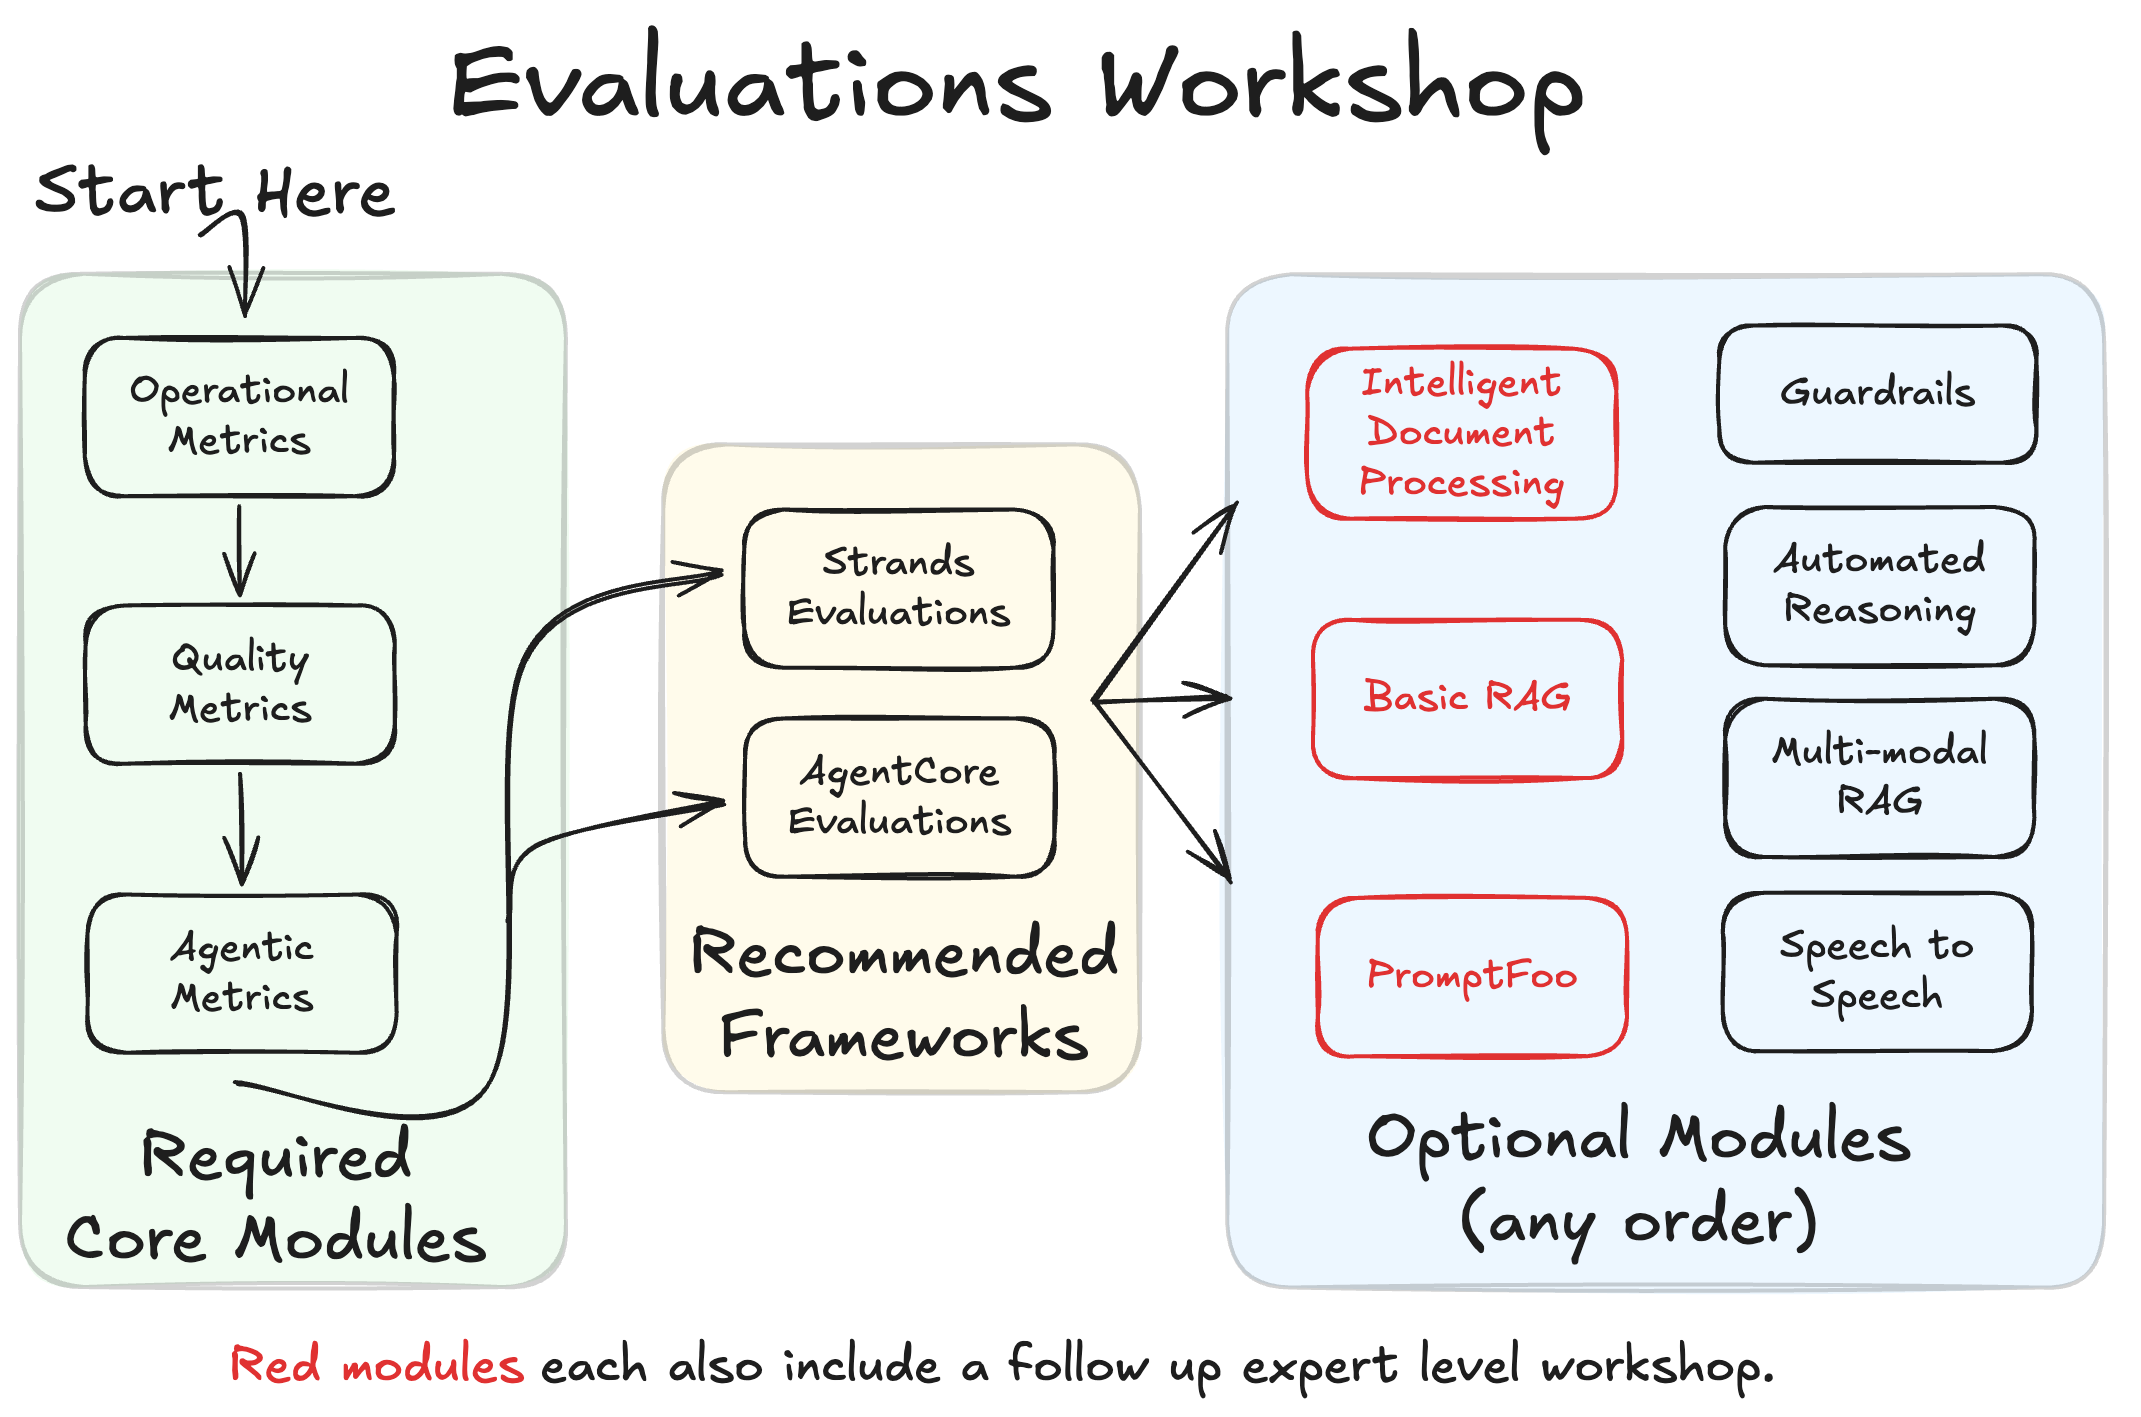
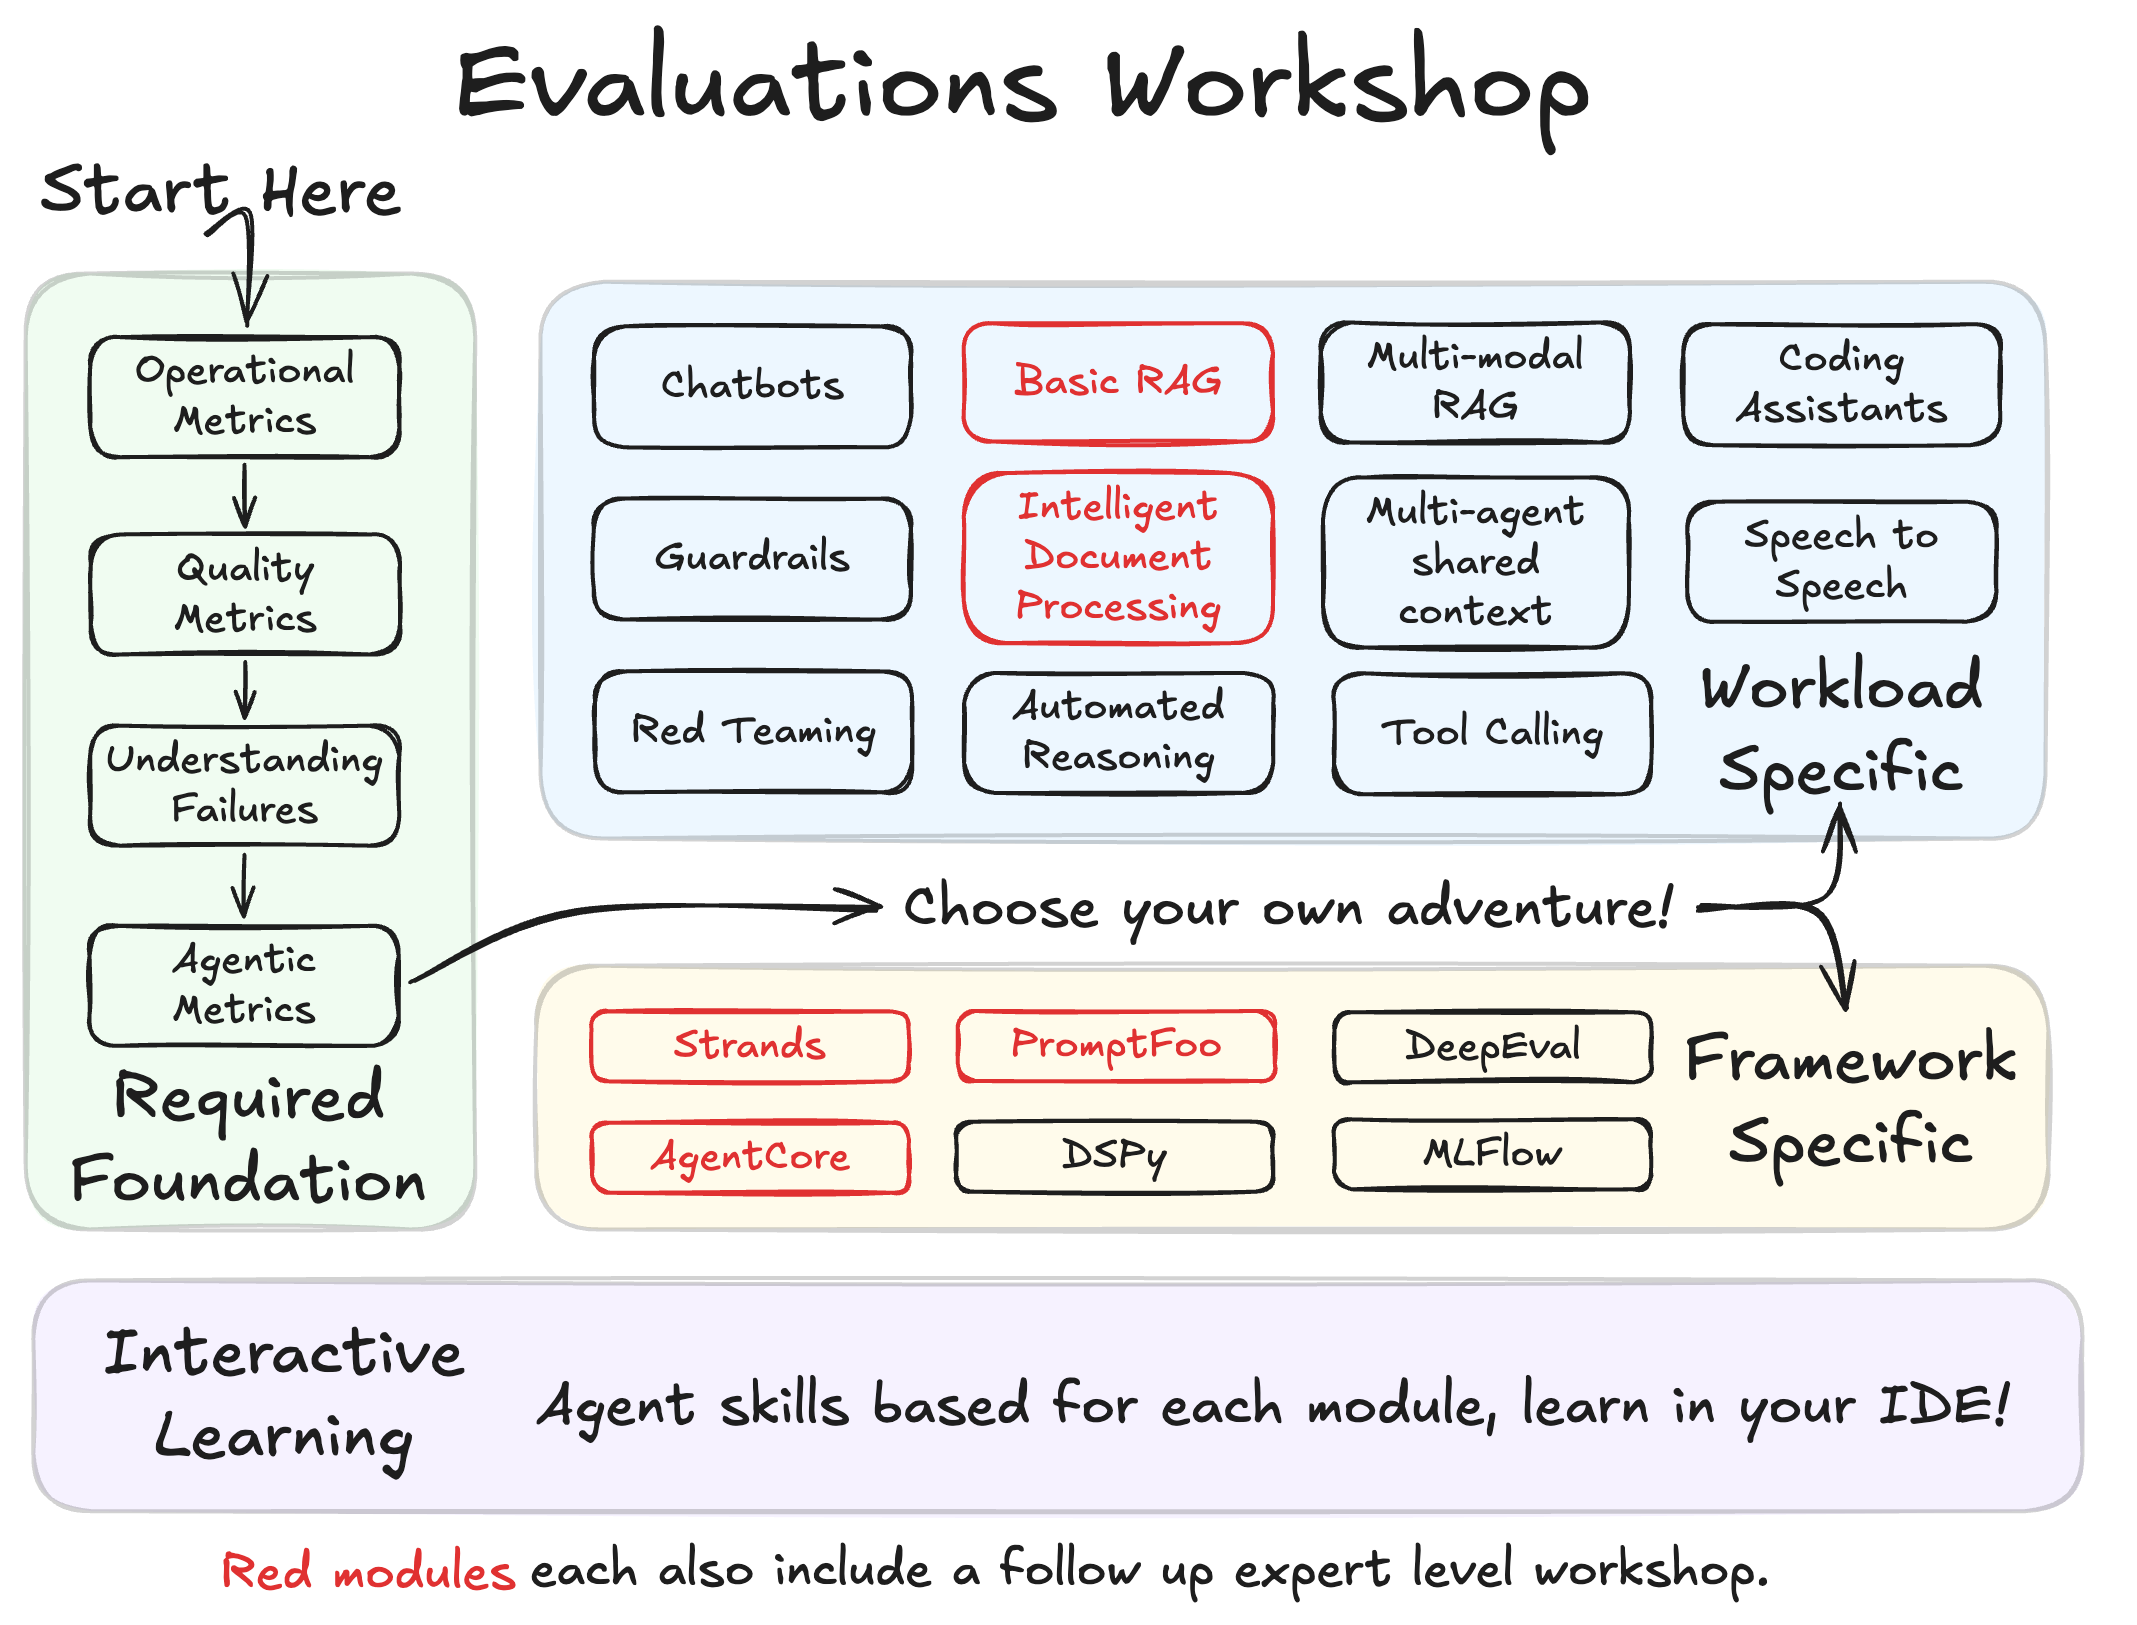
Add expert-level follow-up links to Strands and AgentCore READMEs
- Strands: link to strands-agents/evals repo, Simulators Guide, and
  full Evaluators Reference for advanced topics (multimodal eval, tool
  simulation, failure detection, experiment generation)
- AgentCore & AgentCore Runtime Evals: link to amazon-bedrock-agentcore-samples
  repo (features/Evaluation section) and official AWS workshops
- Update root-level workshop diagram to reflect directory restructuring

Changed region(s): [[0.0, 0.0932, 0.9883, 0.9936], [0.2162, 0.0, 0.7412, 0.0932]]

diff --git a/Framework Specific Evaluations/Strands/README.md b/Framework Specific Evaluations/Strands/README.md
@@ -66,3 +66,11 @@ Before executing this notebook, ensure access to Global Claude 4.5 Haiku in your
 - [Strands Evals Documentation](https://strandsagents.com/docs/user-guide/evals-sdk/quickstart/)
 - [Strands Agents GitHub](https://github.com/strands-agents/sdk-python)
 - [Evaluators Reference](https://strandsagents.com/docs/user-guide/evals-sdk/evaluators/)
+
+## Follow-Up: Expert-Level Content
+
+This module covers the fundamentals of output and trajectory evaluation with Strands Evals. To go deeper, explore the following resources:
+
+- **[Strands Agents Evals Repository](https://github.com/strands-agents/evals)** — The full evaluation framework includes advanced capabilities not covered in this workshop: multimodal evaluation (MLLM-as-a-Judge), multi-turn conversation simulation with ActorSimulator, LLM-powered tool simulation with shared state, automated experiment generation from context descriptions, and failure detection with root cause analysis.
+- **[Simulators Guide](https://strandsagents.com/docs/user-guide/evals-sdk/simulators/)** — Detailed documentation on using ActorSimulator for dynamic multi-turn testing and ToolSimulator for controlled tool behavior without live infrastructure.
+- **[Evaluators Reference](https://strandsagents.com/docs/user-guide/evals-sdk/evaluators/)** — Full catalog of built-in evaluators including trace-based evaluators (HelpfulnessEvaluator, FaithfulnessEvaluator, CoherenceEvaluator), session-level evaluators (GoalSuccessRateEvaluator), and multimodal evaluators.

diff --git a/Framework Specific Evaluations/AgentCore Runtime Evals/README.md b/Framework Specific Evaluations/AgentCore Runtime Evals/README.md
@@ -144,6 +144,16 @@ Each evaluation returns:
 - [Strands Agents Framework](https://github.com/strands-agents/sdk-python)
 - [Amazon Bedrock Documentation](https://docs.aws.amazon.com/bedrock/)
 
+## Follow-Up: Expert-Level Content
+
+This module covers deploying to AgentCore Runtime and using the native AgentCore Evaluations API with built-in evaluators. To go deeper, explore the following resources:
+
+- **[Amazon Bedrock AgentCore Samples Repository](https://github.com/awslabs/amazon-bedrock-agentcore-samples)** — The official samples repo includes a dedicated `features/Evaluation` section with advanced examples of built-in and custom evaluators, on-demand and online evaluation patterns, plus end-to-end production applications.
+- **[Getting Started with Amazon Bedrock AgentCore - Workshop](https://catalog.workshops.aws)** — An official AWS hands-on workshop covering the fundamentals of building and deploying agents with AgentCore.
+- **[Diving Deep into Bedrock AgentCore - Workshop](https://catalog.workshops.aws)** — An advanced AWS workshop that goes beyond the basics into production-grade patterns including evaluation at scale, identity, observability, and policy management.
+
+---
+
 ## Troubleshooting
 
 ### Agent Deployment Issues

diff --git a/Framework Specific Evaluations/AgentCore/README.md b/Framework Specific Evaluations/AgentCore/README.md
@@ -169,6 +169,16 @@ Sample evaluation output:
 
 
 
+## 🚀 Follow-Up: Expert-Level Content
+
+This module covers deploying agents to AgentCore Runtime and running custom evaluations with X-Ray observability. To go deeper, explore the following resources:
+
+- **[Amazon Bedrock AgentCore Samples Repository](https://github.com/awslabs/amazon-bedrock-agentcore-samples)** — The official samples repo includes a dedicated `features/Evaluation` section with deep dives on built-in and custom evaluators for on-demand and online evaluation, plus end-to-end production applications combining multiple AgentCore capabilities.
+- **[Getting Started with Amazon Bedrock AgentCore - Workshop](https://catalog.workshops.aws)** — An official AWS hands-on workshop covering the fundamentals of building and deploying agents with AgentCore.
+- **[Diving Deep into Bedrock AgentCore - Workshop](https://catalog.workshops.aws)** — An advanced AWS workshop that goes beyond the basics into production-grade patterns, identity management, observability, and evaluation at scale.
+
+---
+
 ## 🔒 Optional - Account ID Security & Masking
 
 This repository includes automated security measures to prevent AWS account IDs from being exposed in published notebooks.
